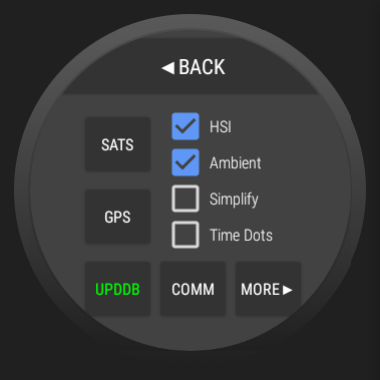
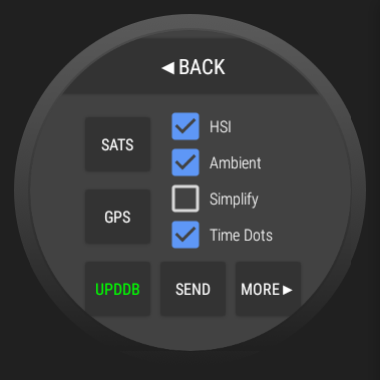
version 1.7.1
* fix incoming NMEA GPGGA decode
* change COMM button to SEND

Changed region(s): [[0.4342, 0.5789, 0.55, 0.6658], [0.4342, 0.7237, 0.5789, 0.7816]]

diff --git a/icons/help.html b/icons/help.html
@@ -243,27 +243,7 @@
                     <UL>
                         <LI><B>&#9664;BACK</B> - goes back to nav dial or moving map page
                         <LI><B>SATS</B> - show GPS satellite status (also has a magnetic compass)
-                        <LI><B>GPS</B> - selects GPS source
-                            <UL>
-                                <LI><B>Internal</B> - uses watch's internal GPS receiver
-                                <LI><B>Bluetooth</B> - uses external device's GPS connected via Bluetooth
-                                    <UL>
-                                        <LI>select paired device.  if not listed, use watch's
-                                            settings to pair the device, then re-select
-                                            <B>Bluetooth</B> from this menu.
-                                        <LI>select UUID.  usually the one beginning with 00001101
-                                            works, but the app on the external device may be using
-                                            a different one.
-                                    </UL>
-                                    For example, <A HREF="https://play.google.com/store/apps/details?id=com.outerworldapps.gpsblue">GPSBlue</A>
-                                    can be used on a phone to relay GPS from the phone to the watch using Bluetooth.
-                                <LI><B>WiFi UDP</B> - uses external device's GPS connected via WiFi using UDP
-                                    <UL>
-                                        <LI><B>port</B> - UDP port number the external device sends packets on
-                                    </UL>
-                                    Can be used with Stratux-like devices that relay GPS over WiFi in UDP packets.
-                                <LI><B>Simulator</B> - generates GPS locations for testing
-                            </UL>
+                        <LI><B>GPS</B> - selects GPS source (see below)
                         <LI><B>UPDDB</B> - download database update (requires Internet access)
                             <UL>
                                 <LI><FONT COLOR=GREEN>GREEN</FONT> - database is up to date and will remain so for a few days
@@ -283,7 +263,7 @@
                                 <LI><FONT COLOR=GREEN>GREEN</FONT> dot indicates MINUTES
                                 <LI><FONT COLOR=BLUE>BLUE</FONT> dot indicates SECONDS
                             </UL>
-                        <LI><B>COMM</B> - access bluetooth and UDP parameters
+                        <LI><B>SEND</B> - send location to another device using bluetooth and/or UDP
                         <LI><B>MORE&#9654;</B> - goes to next menu page
                     </UL>
                 </TD>
@@ -382,8 +362,38 @@
             <LI><B>off</B> clear waypoint and turn GPS off
         </UL>
         <HR>
-        <H3> COMM </H3>
-        <P>Transmits GPS positions (either real or simluated) on Bluetooth and/or UDP (Internet)
+        <H3> GPS </H3>
+        <P>Selects which GPS device is used.</P>
+        <UL>
+            <LI><B>Internal</B> - uses watch's internal GPS receiver
+            <LI><B>Bluetooth</B> - uses external device's GPS connected via Bluetooth
+                <UL>
+                    <LI>select paired device.  if not listed, use watch's
+                        settings to pair the device, then re-select
+                        <B>Bluetooth</B> from this menu.
+                    <LI>select UUID.  usually the one beginning with 00001101
+                        works, but the app on the external device may be using
+                        a different one.  if the UUID being used by the device
+                        does not appear in the selection list:
+                        <OL>
+                            <LI>close the HSIWatch app (BACK BACK BACK ... as needed)
+                            <LI>make sure the device is on
+                            <LI>start the GPS app on the device (if any)
+                            <LI>un-pair and re-pair the watch with the device
+                            <LI>restart the HSIWatch app
+                        </OL>
+                </UL>
+                For example, <A HREF="https://play.google.com/store/apps/details?id=com.outerworldapps.gpsblue">GPSBlue</A>
+                can be used on a phone to relay GPS from the phone to the watch using Bluetooth.
+            <LI><B>WiFi UDP</B> - uses external device's GPS connected via WiFi using UDP
+                <UL>
+                    <LI><B>port</B> - UDP port number the external device sends packets on
+                </UL>
+                Can be used with Stratux-like devices that relay GPS over WiFi in UDP packets.
+            <LI><B>Simulator</B> - generates GPS locations for testing
+        </UL>
+        <H3> SEND </H3>
+        <P>Transmits GPS positions (either real or simluated) on Bluetooth and/or UDP (WiFi)
             to such as a tablet or phone based EFB app.  Uses NMEA GPGGA,GPRMC messages to send
             GPS position reports.</P>
         <UL>

diff --git a/app/src/main/java/com/outerworldapps/hsiwatch/BluetoothGps.java b/app/src/main/java/com/outerworldapps/hsiwatch/BluetoothGps.java
@@ -35,6 +35,7 @@ import android.widget.TextView;
 import java.io.BufferedReader;
 import java.io.Closeable;
 import java.io.InputStreamReader;
+import java.util.Arrays;
 import java.util.Set;
 import java.util.UUID;
 
@@ -42,8 +43,9 @@ import java.util.UUID;
  * Use Bluetooth to receive GPS location and status information.
  */
 public class BluetoothGps extends ExternalGps {
-    private final static String SPPUUID = "00001101-0000-1000-8000-00805f9b34fb";
+    private final static String SPPUUID = "00001101-0000-1000-8000-00805F9B34FB";
 
+    private BluetoothDevice btdevSelected;
     private BufferedReader btReader;
     private CheckBox btsecureCkBox;
     private SharedPreferences prefs;
@@ -93,11 +95,13 @@ public class BluetoothGps extends ExternalGps {
         capable = true;
 
         // try to select previously selected device, uuid, secure
+        btdevSelected = null;
         String btdevidstr = prefs.getString ("bluetoothgps.devident", "");
         try {
             BluetoothDevice btdev = getBtDev (btdevidstr);
             if (btdevidView.setText (btdevidstr)) {
-                populateBtUUIDSelector (btdev);
+                btdevSelected = btdev;
+                populateBtUUIDSelector ();
                 String btuuidstr = prefs.getString ("bluetoothgps." + btdevidstr + ".uuid", SPPUUID);
                 boolean btsecure = prefs.getBoolean ("bluetoothgps." + btdevidstr + ".secure", false);
                 btuuidView.setText (btuuidstr);
@@ -111,7 +115,7 @@ public class BluetoothGps extends ExternalGps {
     // populate the bluetooth device name spinner with paired device names
     private String populateBtDevSelector ()
     {
-        btdevidView.setTitle ("bluetooth device");
+        btdevidView.setTitle ("Select Device");
         String[] labels;
         try {
             labels = getBtDevIdents ();
@@ -120,6 +124,7 @@ public class BluetoothGps extends ExternalGps {
         }
         btdevidView.setLabels (labels, null, "(select)", null);
         btdevidView.setIndex (TextArraySpinner.NOTHING);
+        btdevSelected = null;
         return null;
     }
 
@@ -130,7 +135,7 @@ public class BluetoothGps extends ExternalGps {
         public boolean onItemSelected (View view, int index, String btdevidstr)
         {
             try {
-                populateBtUUIDSelector (getBtDev (btdevidstr));
+                btdevSelected = getBtDev (btdevidstr);
             } catch (Exception e) {
                 Log.w (MainActivity.TAG, "error looking up " + btdevidstr, e);
                 mainActivity.showToast (btdevidstr + ": " + e.getMessage());
@@ -140,6 +145,8 @@ public class BluetoothGps extends ExternalGps {
             SharedPreferences.Editor editr = prefs.edit ();
             editr.putString ("bluetoothgps.devident", btdevidstr);
             editr.apply ();
+
+            populateBtUUIDSelector ();
 
             String btuuidstr = prefs.getString ("bluetoothgps." + btdevidstr + ".uuid", SPPUUID);
             boolean btsecure = prefs.getBoolean ("bluetoothgps." + btdevidstr + ".secure", false);
@@ -164,16 +171,16 @@ public class BluetoothGps extends ExternalGps {
         }
     };
 
-    // populate uuid spinner with UUIDs for the given device
-    private void populateBtUUIDSelector (BluetoothDevice btdev)
+    // populate uuid spinner with UUIDs for the currently selected device
+    private void populateBtUUIDSelector ()
     {
         /*
          * Get cached list of UUIDs known for the device.
          * This works if the device is currently paired,
          * it does not matter if it is in radio range or not.
          */
-        String btdevname = btIdentString (btdev);
-        ParcelUuid[] uuidArray = btdev.getUuids ();
+        String btdevname = btIdentString (btdevSelected);
+        ParcelUuid[] uuidArray = btdevSelected.getUuids ();
 
         /*
          * If no cache, use the default SPPUUID.
@@ -189,14 +196,18 @@ public class BluetoothGps extends ExternalGps {
         int nuuids = uuidArray.length;
         String[] uuidsWithDef = new String[nuuids];
         int i = 0;
-        int defi = TextArraySpinner.NOTHING;
         for (ParcelUuid uuid : uuidArray) {
-            String uuidstr = uuid.toString ();
-            if (uuidstr.equals (SPPUUID)) {
+            uuidsWithDef[i++] = uuid.toString ().toUpperCase ();
+        }
+        Arrays.sort (uuidsWithDef);
+
+        // look for default entry
+        int defi = TextArraySpinner.NOTHING;
+        for (i = 0; i < nuuids; i ++) {
+            if (uuidsWithDef[i].equals (SPPUUID)) {
                 defi = i;
+                break;
             }
-            uuidsWithDef[i] = uuidstr;
-            i ++;
         }
 
         /*
@@ -213,8 +224,7 @@ public class BluetoothGps extends ExternalGps {
         @Override
         public boolean onItemSelected (View view, int index, String btuuidstr)
         {
-            String btdevidstr = btdevidView.getText ();
-
+            String btdevidstr = btIdentString (btdevSelected);
             SharedPreferences.Editor editr = prefs.edit ();
             editr.putString ("bluetoothgps." + btdevidstr + ".uuid", btuuidstr);
             editr.apply ();
@@ -243,10 +253,9 @@ public class BluetoothGps extends ExternalGps {
         @Override
         public void onClick (View v)
         {
-            String btdevidstr = btdevidView.getText ();
-
             boolean btsecure = btsecureCkBox.isChecked ();
             SharedPreferences.Editor editr = prefs.edit ();
+            String btdevidstr = btIdentString (btdevSelected);
             editr.putBoolean ("bluetoothgps." + btdevidstr + ".secure", btsecure);
             editr.apply ();
 
@@ -260,7 +269,7 @@ public class BluetoothGps extends ExternalGps {
     @Override  // ExternalGps
     protected String getPeerName ()
     {
-        return btdevidView.getText () + " " + btuuidView.getText () +
+        return btIdentString (btdevSelected) + " " + btuuidView.getText () +
                 (btsecureCkBox.isChecked () ? " secure" : " insec");
     }
 
@@ -271,7 +280,6 @@ public class BluetoothGps extends ExternalGps {
     protected Closeable openSocket ()
             throws Exception
     {
-        BluetoothDevice btDevice = getBtDev (btdevidView.getText ());
         UUID btUUID = UUID.fromString (btuuidView.getText ());
         boolean btSecure = btsecureCkBox.isChecked ();
 
@@ -280,9 +288,9 @@ public class BluetoothGps extends ExternalGps {
          */
         BluetoothSocket socket;
         if (btSecure) {
-            socket = btDevice.createRfcommSocketToServiceRecord (btUUID);
+            socket = btdevSelected.createRfcommSocketToServiceRecord (btUUID);
         } else {
-            socket = btDevice.createInsecureRfcommSocketToServiceRecord (btUUID);
+            socket = btdevSelected.createInsecureRfcommSocketToServiceRecord (btUUID);
         }
 
         /*

diff --git a/app/src/main/java/com/outerworldapps/hsiwatch/SendMainPage.java b/app/src/main/java/com/outerworldapps/hsiwatch/SendMainPage.java
@@ -49,7 +49,7 @@ import java.util.UUID;
 /**
  * Transmit our GPS location over UDP and/or Bluetooth
  */
-public class CommMainPage implements GpsTransmitter {
+public class SendMainPage implements GpsTransmitter {
     private final static int numsats = 12;
     private final static String btServerUUIDPrefixDef = "00001101";
     private final static String btServerUUIDSuffix = "-0000-1000-8000-00805f9b34fb";
@@ -68,9 +68,9 @@ public class CommMainPage implements GpsTransmitter {
     private SimpleDateFormat sdfdmy;
     private UUID btServerUUID;
     private TextView conCountView;
-    public  View commPageView;
+    public  View sendPageView;
 
-    public CommMainPage (MainActivity ma)
+    public SendMainPage (MainActivity ma)
     {
         mainActivity = ma;
         prefs = mainActivity.getPreferences (Context.MODE_PRIVATE);
@@ -79,15 +79,15 @@ public class CommMainPage implements GpsTransmitter {
     @SuppressLint("InflateParams")
     public void show ()
     {
-        if (commPageView == null) {
+        if (sendPageView == null) {
             LayoutInflater layoutInflater = mainActivity.getLayoutInflater ();
-            commPageView = layoutInflater.inflate (R.layout.comm_page, null);
-            Button udpBack = commPageView.findViewById (R.id.commBack);
+            sendPageView = layoutInflater.inflate (R.layout.send_page, null);
+            Button udpBack = sendPageView.findViewById (R.id.sendBack);
             udpBack.setOnClickListener (mainActivity.backButtonListener);
-            ScrollView commScroll = commPageView.findViewById (R.id.commScroll);
-            commScroll.addView (Initialize ());
+            ScrollView sendScroll = sendPageView.findViewById (R.id.sendScroll);
+            sendScroll.addView (Initialize ());
         }
-        mainActivity.showMainPage (commPageView);
+        mainActivity.showMainPage (sendPageView);
     }
 
     @SuppressLint("SetTextI18n")
@@ -355,7 +355,7 @@ public class CommMainPage implements GpsTransmitter {
         buf[--i] = '$';
         NMEAChecksum (buf, i);
 
-        //Log.d (MainActivity.TAG, "CommMainPage.sendLocation*: " + new String (buf, i, buf.length - i));
+        //Log.d (MainActivity.TAG, "SendMainPage.sendLocation*: " + new String (buf, i, buf.length - i));
         TransmitBytes (buf, i, buf.length - i);
     }
 

diff --git a/app/src/main/java/com/outerworldapps/hsiwatch/BluetoothServer.java b/app/src/main/java/com/outerworldapps/hsiwatch/BluetoothServer.java
@@ -46,10 +46,10 @@ public class BluetoothServer {
     private HashSet<ReceiveThread> rtlist;
     private final Object connectionLock;
     private ReceiveThread[] rtarray;
-    private CommMainPage udpMainPage;
+    private SendMainPage udpMainPage;
     private UUID sppUUID;
 
-    public BluetoothServer (CommMainPage ump)
+    public BluetoothServer (SendMainPage ump)
     {
         udpMainPage = ump;
         connectionLock = new Object ();
@@ -133,7 +133,7 @@ public class BluetoothServer {
                 BluetoothManager bm = udpMainPage.mainActivity.getSystemService (BluetoothManager.class);
                 BluetoothAdapter ba = bm.getAdapter ();
                 if (ba == null) throw new Exception ("no bluetooth on this device");
-                serverSocket = ba.listenUsingInsecureRfcommWithServiceRecord ("GPSBlue", sppUUID);
+                serverSocket = ba.listenUsingInsecureRfcommWithServiceRecord ("HSIWatch", sppUUID);
                 synchronized (connectionLock) {
                     rtlist = new HashSet<> ();
                     rtarray = nullrtarray;

diff --git a/app/src/main/java/com/outerworldapps/hsiwatch/MenuMainPage.java b/app/src/main/java/com/outerworldapps/hsiwatch/MenuMainPage.java
@@ -43,7 +43,7 @@ public class MenuMainPage {
     public  CheckBox hsiModeCkBox;
     public  CheckBox simplifyCkBox;
     public  CheckBox timeDotsCkBox;
-    private CommMainPage commMainPage;
+    private SendMainPage sendMainPage;
     private int numResetClicks;
     private long lastExitClick;
     private long lastResetClick;
@@ -148,13 +148,13 @@ public class MenuMainPage {
             }
         });
 
-        commMainPage = new CommMainPage (mainActivity);
-        Button commButton = menuPageView.findViewById (R.id.commButton);
-        commButton.setOnClickListener (new View.OnClickListener () {
+        sendMainPage = new SendMainPage (mainActivity);
+        Button sendButton = menuPageView.findViewById (R.id.sendButton);
+        sendButton.setOnClickListener (new View.OnClickListener () {
             @Override
             public void onClick (View v)
             {
-                commMainPage.show ();
+                sendMainPage.show ();
             }
         });
 

diff --git a/app/src/main/java/com/outerworldapps/hsiwatch/DecodeNMEA.java b/app/src/main/java/com/outerworldapps/hsiwatch/DecodeNMEA.java
@@ -132,8 +132,8 @@ public class DecodeNMEA {
                         decodeNMEAhhmmss (parts[1]);
                         gpsloc.lat = decodeNMEALatLon (parts[2], parts[3], 'N', 'S');
                         gpsloc.lon = decodeNMEALatLon (parts[4], parts[5], 'E', 'W');
-                        gpsloc.altitude = Double.parseDouble (parts[10]);
-                        if (! parts[11].equals ("M")) throw new Exception ("altitude not in metres");
+                        gpsloc.altitude = Double.parseDouble (parts[9]);
+                        if (! parts[10].equals ("M")) throw new Exception ("altitude not in metres");
                         gotgga = true;
                         if (gotrmc) gotLocation ();
                     }
